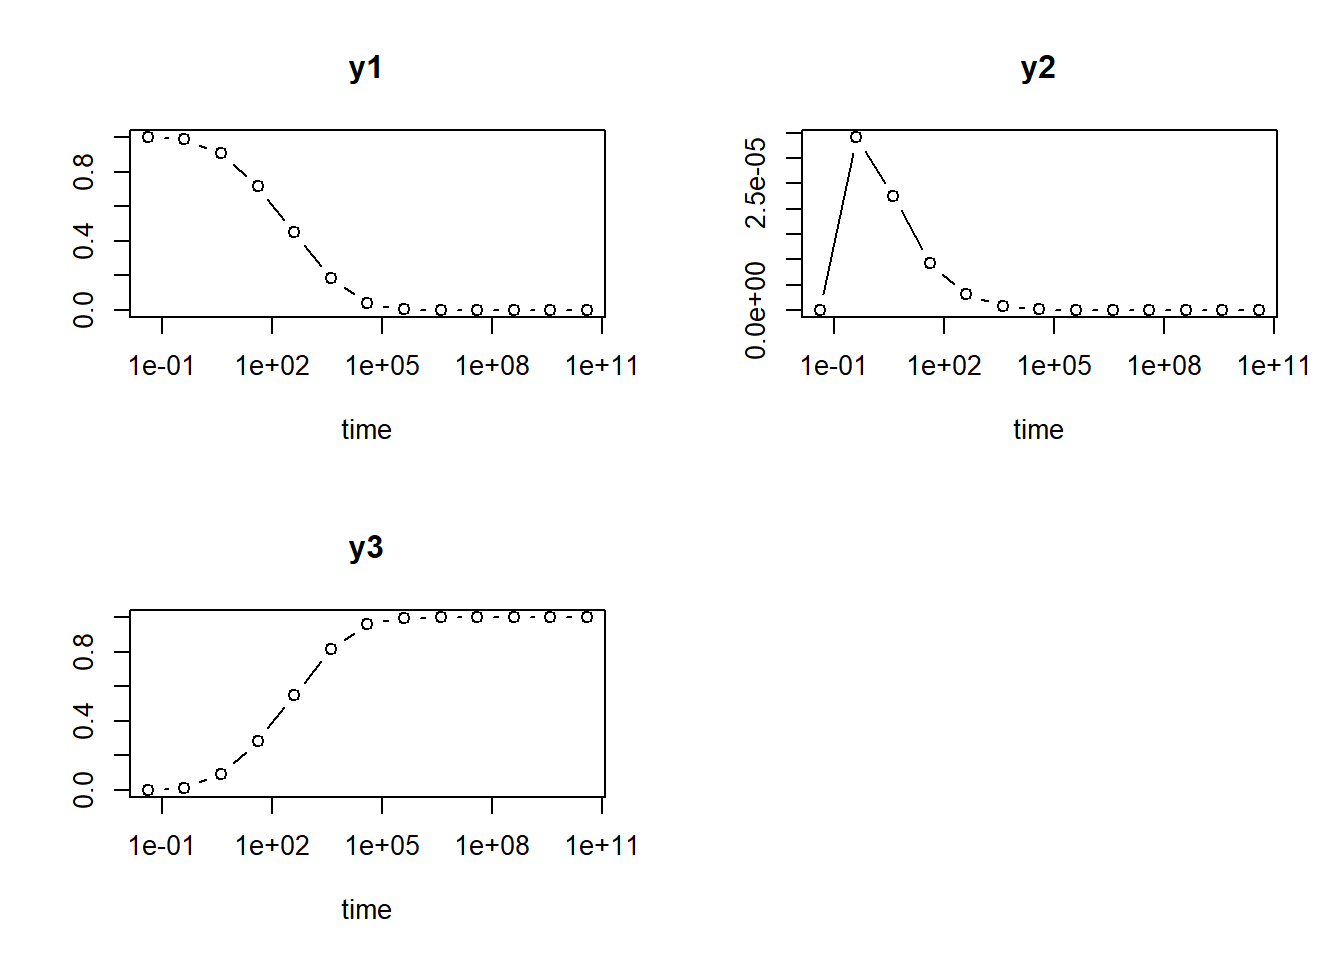
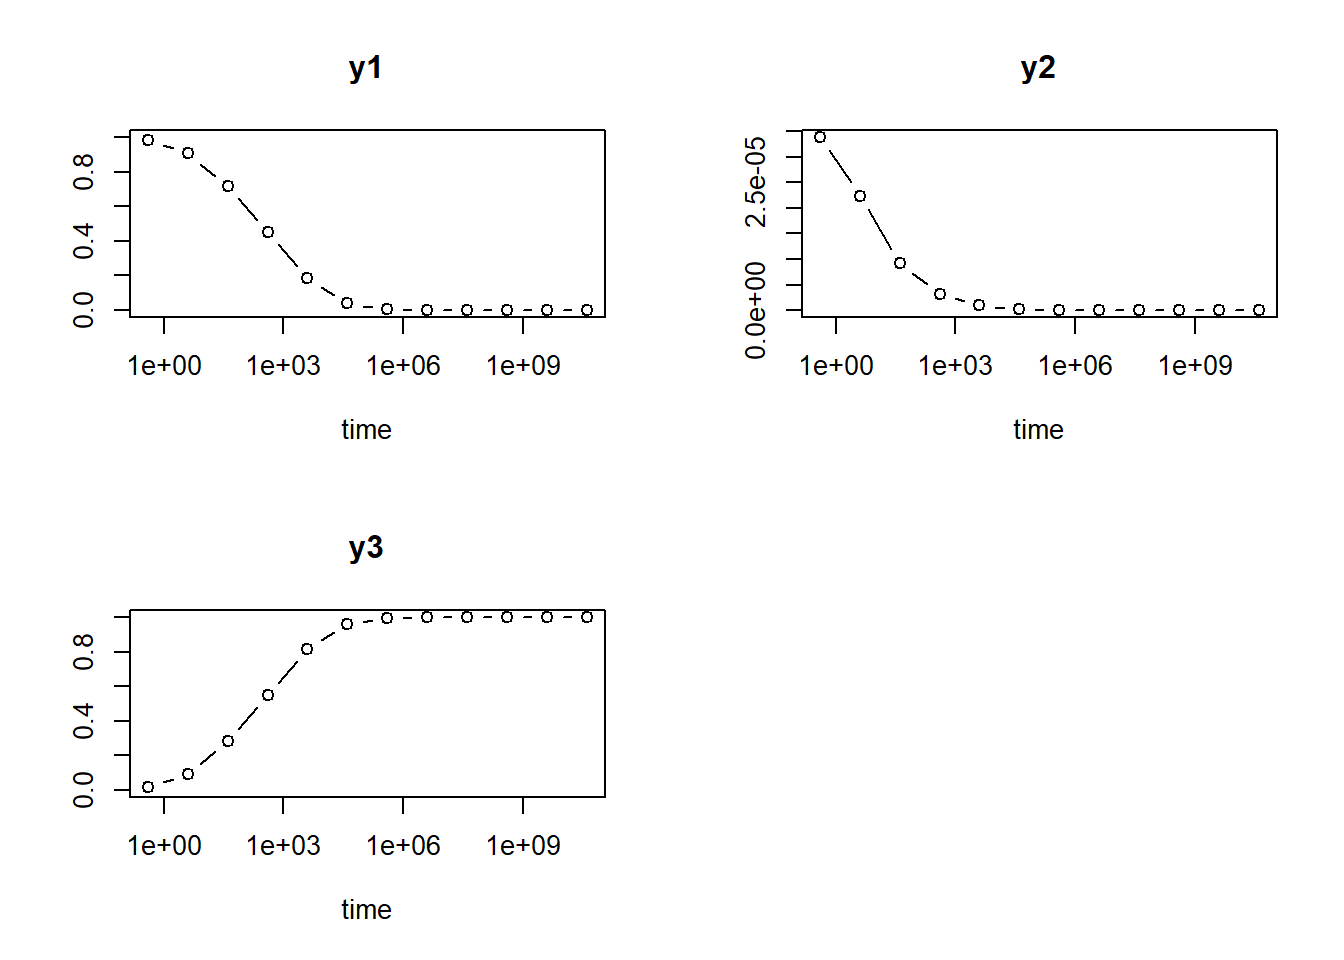
mcsim under r

diff --git a/content/post/2018-03-09-mcsim-under-r/index.html b/content/post/2018-03-09-mcsim-under-r/index.html
@@ -28,7 +28,7 @@ tags: [mcsim, R]
 <div id="TOC">
 <ul>
 <li><a href="#introduction">Introduction</a><ul>
-<li><a href="#create-gnu-mcsim-program">Create GNU MCSim program</a></li>
+<li><a href="#create-gnu-mcsim-program">Create <strong>GNU MCSim</strong> program</a></li>
 </ul></li>
 <li><a href="#r-package-desolve-solution">R package <strong>deSolve</strong> solution</a><ul>
 <li><a href="#solve-ode-in-pure-r">Solve ODE in pure R</a></li>
@@ -56,7 +56,7 @@ unzip(zipfile = tf, exdir = wd)</code></pre>
 <pre><code>## [1] TRUE</code></pre>
 <p>Also, we need to chek the Rtools is in the PATH by using</p>
 <pre class="r"><code>Sys.getenv(&quot;PATH&quot;)</code></pre>
-<pre><code>## [1] &quot;c:\\Rtools\\mingw_64\\bin;c:\\Rtools\\bin;C:\\Program Files\\R\\R-3.6.2\\bin\\x64;C:\\Windows\\system32;C:\\Windows;C:\\Windows\\System32\\Wbem;C:\\Windows\\System32\\WindowsPowerShell\\v1.0\\;C:\\Windows\\System32\\OpenSSH\\;C:\\Program Files\\NVIDIA Corporation\\NVIDIA NvDLISR;C:\\Program Files\\Git\\cmd;C:\\Users\\nan_1\\AppData\\Local\\Microsoft\\WindowsApps;;C:\\Users\\nan_1\\AppData\\Local\\Programs\\Microsoft VS Code\\bin&quot;</code></pre>
+<pre><code>## [1] &quot;C:\\Program Files\\R\\R-3.6.2\\bin\\x64;C:\\Windows\\system32;C:\\Windows;C:\\Windows\\System32\\Wbem;C:\\Windows\\System32\\WindowsPowerShell\\v1.0\\;C:\\Windows\\System32\\OpenSSH\\;C:\\Program Files\\NVIDIA Corporation\\NVIDIA NvDLISR;C:\\Program Files\\Git\\cmd;C:\\Users\\nan_1\\AppData\\Local\\Microsoft\\WindowsApps;;C:\\Users\\nan_1\\AppData\\Local\\Programs\\Microsoft VS Code\\bin&quot;</code></pre>
 <p>If you can not find the Rtools in the PATH. such as, <code>c:\\Rtools\\bin</code> and <code>c:\\Rtools\\mingw_64\\bin</code>. You will need to manually add it as follow,</p>
 <pre class="r"><code>Sys.setenv(PATH = paste(&quot;c:\\Rtools\\bin&quot;, Sys.getenv(&quot;PATH&quot;), sep=&quot;;&quot;))
 Sys.setenv(PATH = paste(&quot;c:\\Rtools\\mingw_64\\bin&quot;, Sys.getenv(&quot;PATH&quot;), sep=&quot;;&quot;))</code></pre>
@@ -68,7 +68,7 @@ Sys.setenv(PATH = paste(&quot;c:\\Rtools\\mingw_64\\bin&quot;, Sys.getenv(&quot;
 <pre><code>##                        make 
 ## &quot;c:\\Rtools\\bin\\make.exe&quot;</code></pre>
 <div id="create-gnu-mcsim-program" class="section level2">
-<h2>Create GNU MCSim program</h2>
+<h2>Create <strong>GNU MCSim</strong> program</h2>
 <p>The following steps is used to generate the executable program (<code>mod.exe</code>) that can traslate the format of model code to C.</p>
 <pre class="r"><code>libSBML = &quot;&quot; # libSBML = &quot;-lsbml&quot; 
 # uncomment and execute if you have and want to use libSBML.
@@ -114,20 +114,28 @@ jac &lt;- function (t, Y, parameters) {
 <pre class="r"><code># Define the parameter values and some conditions
 parms &lt;- c(k1 = 0.04, k2 = 1e4, k3=3e7) # parameter values
 Y &lt;- c(y1 = 1.0, y2 = 0.0, y3 = 0.0) # Initial conditions
-times  &lt;- c(0.04, 0.4*10^(0:11)) # Time steps
+times  &lt;- c(0, 0.4*10^(0:11)) # Time steps
 PD &lt;- matrix(nrow = 3, ncol = 3, data = 0)</code></pre>
 <pre class="r"><code># Solve ODE 
 out.1 &lt;- ode(Y, times, model, parms = parms, jacfunc = jac)
 head(out.1)</code></pre>
 <pre><code>##       time        y1           y2         y3
-## [1,] 4e-02 1.0000000 0.000000e+00 0.00000000
-## [2,] 4e-01 0.9865579 3.410551e-05 0.01340797
-## [3,] 4e+00 0.9061220 2.247436e-05 0.09385556
-## [4,] 4e+01 0.7159311 9.189438e-06 0.28405972
-## [5,] 4e+02 0.4505299 3.223045e-06 0.54946692
-## [6,] 4e+03 0.1832003 8.942355e-07 0.81679876</code></pre>
+## [1,] 0e+00 1.0000000 0.000000e+00 0.00000000
+## [2,] 4e-01 0.9851723 3.386399e-05 0.01479384
+## [3,] 4e+00 0.9055179 2.240437e-05 0.09445974
+## [4,] 4e+01 0.7158298 9.185501e-06 0.28416101
+## [5,] 4e+02 0.4505174 3.222887e-06 0.54947938
+## [6,] 4e+03 0.1831994 8.942298e-07 0.81679972</code></pre>
 <pre class="r"><code># Visualization
 plot(out.1,type=&quot;b&quot;,log=&quot;x&quot;)</code></pre>
+<pre><code>## Warning in xy.coords(x, y, xlabel, ylabel, log): 1 x value &lt;= 0 omitted from
+## logarithmic plot
+
+## Warning in xy.coords(x, y, xlabel, ylabel, log): 1 x value &lt;= 0 omitted from
+## logarithmic plot
+
+## Warning in xy.coords(x, y, xlabel, ylabel, log): 1 x value &lt;= 0 omitted from
+## logarithmic plot</code></pre>
 <p><img src="/post/2018-03-09-mcsim-under-r/index_files/figure-html/unnamed-chunk-13-1.png" width="672" /></p>
 </div>
 <div id="use-desolve-with-gnu-mcsim-model-file" class="section level2">
@@ -269,14 +277,15 @@ Simulation {
 
 End.</code></pre>
 <p>The following step compile the <code>simple.model</code> file and create the executable program named <code>mcsim.simple.model.exe</code>.</p>
-<pre class="r"><code>system(&quot;MinGM-6.1.0/mod.exe simple.model simple.model.c&quot;) </code></pre>
-<pre><code>## [1] 0</code></pre>
+<pre class="r"><code>mcsim &lt;- &quot;MinGM-6.1.0&quot;
+model &lt;- &quot;simple.model&quot;
+input &lt;- &quot;simple.in&quot;
+system(paste0(mcsim, &quot;/mod.exe &quot;, model, &quot; &quot;, model, &quot;.c&quot;)) </code></pre>
 <p>Unlike above exercice, we need to remove the -R flag that can only create c file. Then, compile the <code>simple.model.c</code> to <code>mcsim.simple.model.exe</code>.</p>
-<pre class="r"><code>system(&quot;gcc -O3 -I.. -I MinGM-6.1.0/sim -o mcsim_simple.model.exe simple.model.c MinGM-6.1.0/sim/*.c -lm &quot;)</code></pre>
-<pre><code>## [1] 0</code></pre>
+<pre class="r"><code>system(paste0(&quot;gcc -O3 -I.. -I &quot;, mcsim,&quot;/sim -o mcsim.&quot;, model, &quot;.exe &quot;, 
+       model, &quot;.c &quot;, mcsim, &quot;/sim/*.c -lm &quot;))</code></pre>
 <pre class="r"><code># run!
-system(&quot;./mcsim_simple.model.exe simple.in&quot;)</code></pre>
-<pre><code>## [1] 0</code></pre>
+system(paste0(&quot;./mcsim.&quot;, model, &quot;.exe &quot;, input))</code></pre>
 <pre class="r"><code># the output file is called out by default, load it
 out.3 &lt;- read.delim(&quot;sim.out&quot;, skip = 2)
 head (out.3)</code></pre>
@@ -293,7 +302,25 @@ plot(out.3[,1], out.3[,2], log=&quot;x&quot;,type=&quot;b&quot;, xlab = &quot;ti
 plot(out.3[,1], out.3[,3], log=&quot;x&quot;,type=&quot;b&quot;, xlab = &quot;time&quot;, ylab = &quot;&quot;, main = &quot;y1&quot;)
 plot(out.3[,1], out.3[,4], log=&quot;x&quot;,type=&quot;b&quot;, xlab = &quot;time&quot;, ylab = &quot;&quot;, main = &quot;y2&quot;)
 plot(out.3[,1], out.3[,5], log=&quot;x&quot;,type=&quot;b&quot;, xlab = &quot;time&quot;, ylab = &quot;&quot;, main = &quot;yout&quot;)</code></pre>
-<p><img src="/post/2018-03-09-mcsim-under-r/index_files/figure-html/unnamed-chunk-21-1.png" width="672" /></p>
+<p><img src="/post/2018-03-09-mcsim-under-r/index_files/figure-html/unnamed-chunk-23-1.png" width="672" /></p>
+<p>In addition, creating the R function can help us conduct the simulation more easily,</p>
+<pre class="r"><code># Create function
+mingm &lt;- function(mcsim, model, input){
+  system(paste0(mcsim, &quot;/mod.exe &quot;, model, &quot; &quot;, model, &quot;.c&quot;)) 
+  paste0(&quot;gcc -O3 -I.. -I &quot;, mcsim,&quot;/sim -o mcsim.&quot;, model, &quot;.exe &quot;,
+         model, &quot;.c &quot;, mcsim, &quot;/sim/*.c -lm &quot;)
+  system(paste0(&quot;./mcsim.&quot;, model, &quot;.exe &quot;, input))
+}</code></pre>
+<pre class="r"><code>mingm(mcsim = &quot;MinGM-6.1.0&quot;, model = &quot;simple.model&quot;, input = &quot;simple.in&quot;)</code></pre>
+<pre class="r"><code>out.4 &lt;- read.delim(&quot;sim.out&quot;, skip = 2)
+head (out.4)</code></pre>
+<pre><code>##    Time        y0          y1        y2 yout
+## 1 4e-01 0.9851720 3.38640e-05 0.0147937    1
+## 2 4e+00 0.9055160 2.24043e-05 0.0944616    1
+## 3 4e+01 0.7158290 9.18560e-06 0.2841620    1
+## 4 4e+02 0.4505040 3.22272e-06 0.5494920    1
+## 5 4e+03 0.1831970 8.94202e-07 0.8168020    1
+## 6 4e+04 0.0389846 1.62182e-07 0.9610150    1</code></pre>
 </div>
 <div id="session-info" class="section level1">
 <h1>Session info</h1>
